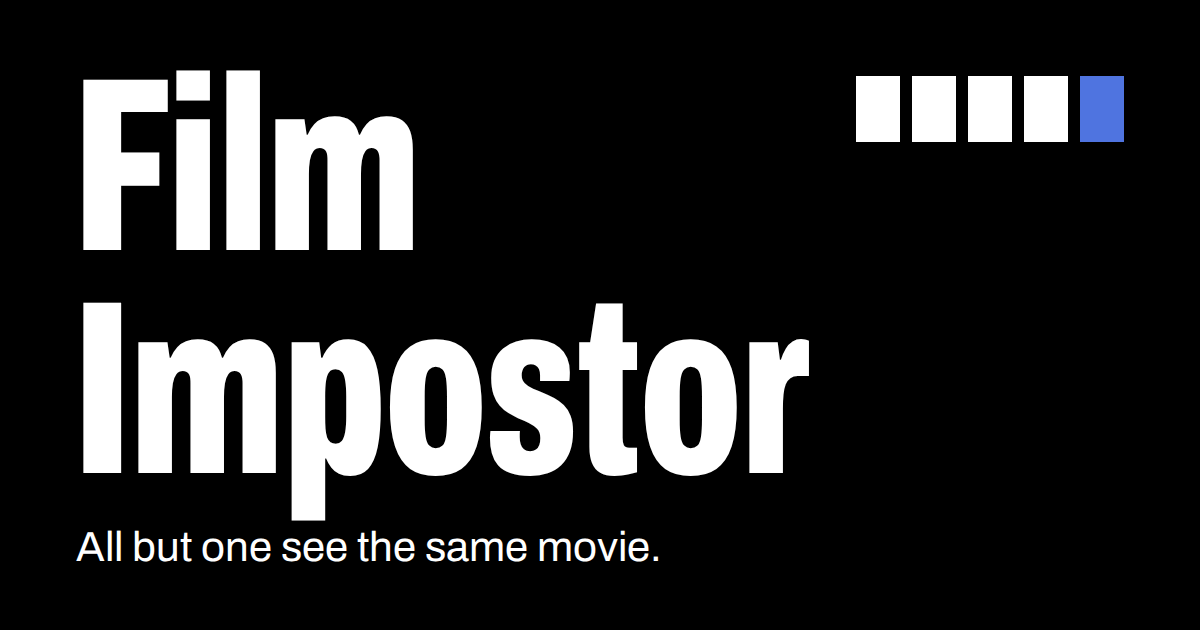
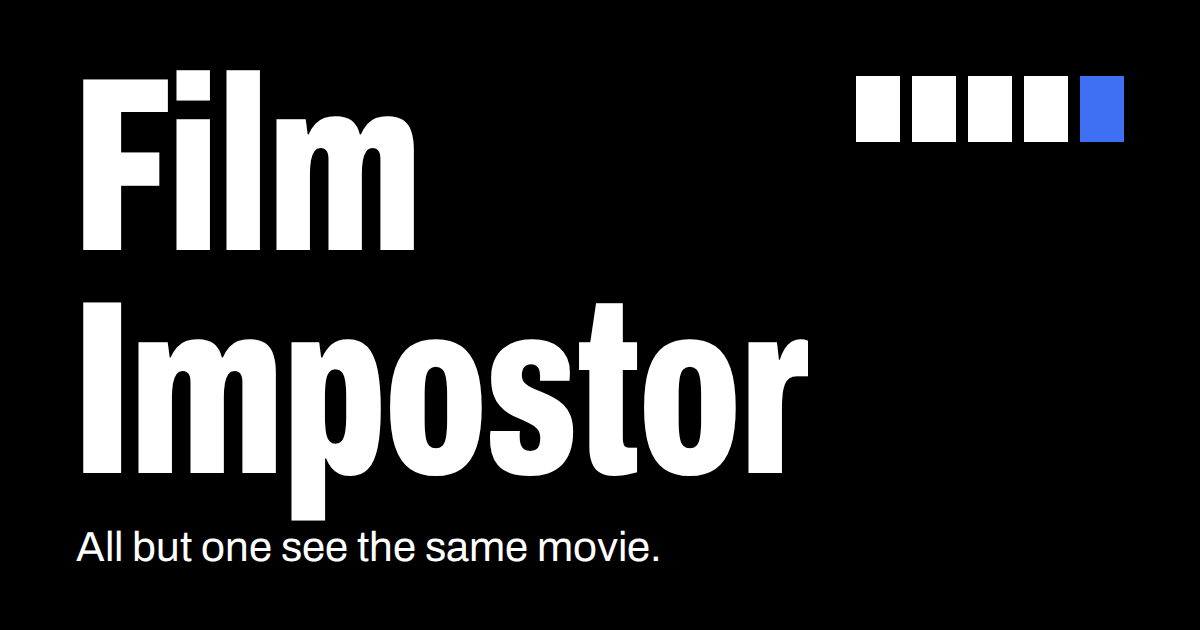
Colores restos de diseños descartados: manifest, barra del navegador y tema claro al color real del fondo, e iconos e imágenes para compartir con el cobalto de la app; fuera prefersReducedMotion, sin uso

Changed region(s): [[0.6475, 0.5429, 0.6783, 0.573], [0.2467, 0.2413, 0.2775, 0.2714]]

diff --git a/src/lib/browser.ts b/src/lib/browser.ts
@@ -1,9 +1,5 @@
 import { useEffect } from 'react';
 
-export function prefersReducedMotion(): boolean {
-    return window.matchMedia('(prefers-reduced-motion: reduce)').matches;
-}
-
 /** Evita que la pantalla se apague durante la partida, si el navegador lo permite. */
 export function useKeepScreenOn(active: boolean): void {
     useEffect(() => {
@@ -80,7 +76,7 @@ export function useDimScreen(active: boolean): void {
         const colors = bars.map((bar) => bar.content);
 
         root.dataset.luz = 'baja';
-        bars.forEach((bar) => (bar.content = '#141b19'));
+        bars.forEach((bar) => (bar.content = '#000000'));
         return () => {
             delete root.dataset.luz;
             bars.forEach((bar, index) => (bar.content = colors[index]));

diff --git a/src/lib/webManifest.ts b/src/lib/webManifest.ts
@@ -13,8 +13,8 @@ export function webManifest(locale: Locale): MetadataRoute.Manifest {
         scope: '/',
         display: 'standalone',
         orientation: 'portrait',
-        background_color: '#1b2220',
-        theme_color: '#1b2220',
+        background_color: '#000000',
+        theme_color: '#000000',
         lang: locale,
         icons: [
             { src: '/icons/icon-192.png', sizes: '192x192', type: 'image/png' },

diff --git a/src/components/Document.tsx b/src/components/Document.tsx
@@ -45,7 +45,7 @@ export const siteViewport: Viewport = {
   initialScale: 1,
   viewportFit: "cover",
   themeColor: [
-    { media: "(prefers-color-scheme: light)", color: "#f2f3f5" },
+    { media: "(prefers-color-scheme: light)", color: "#ffffff" },
     { media: "(prefers-color-scheme: dark)", color: "#000000" },
   ],
 };
